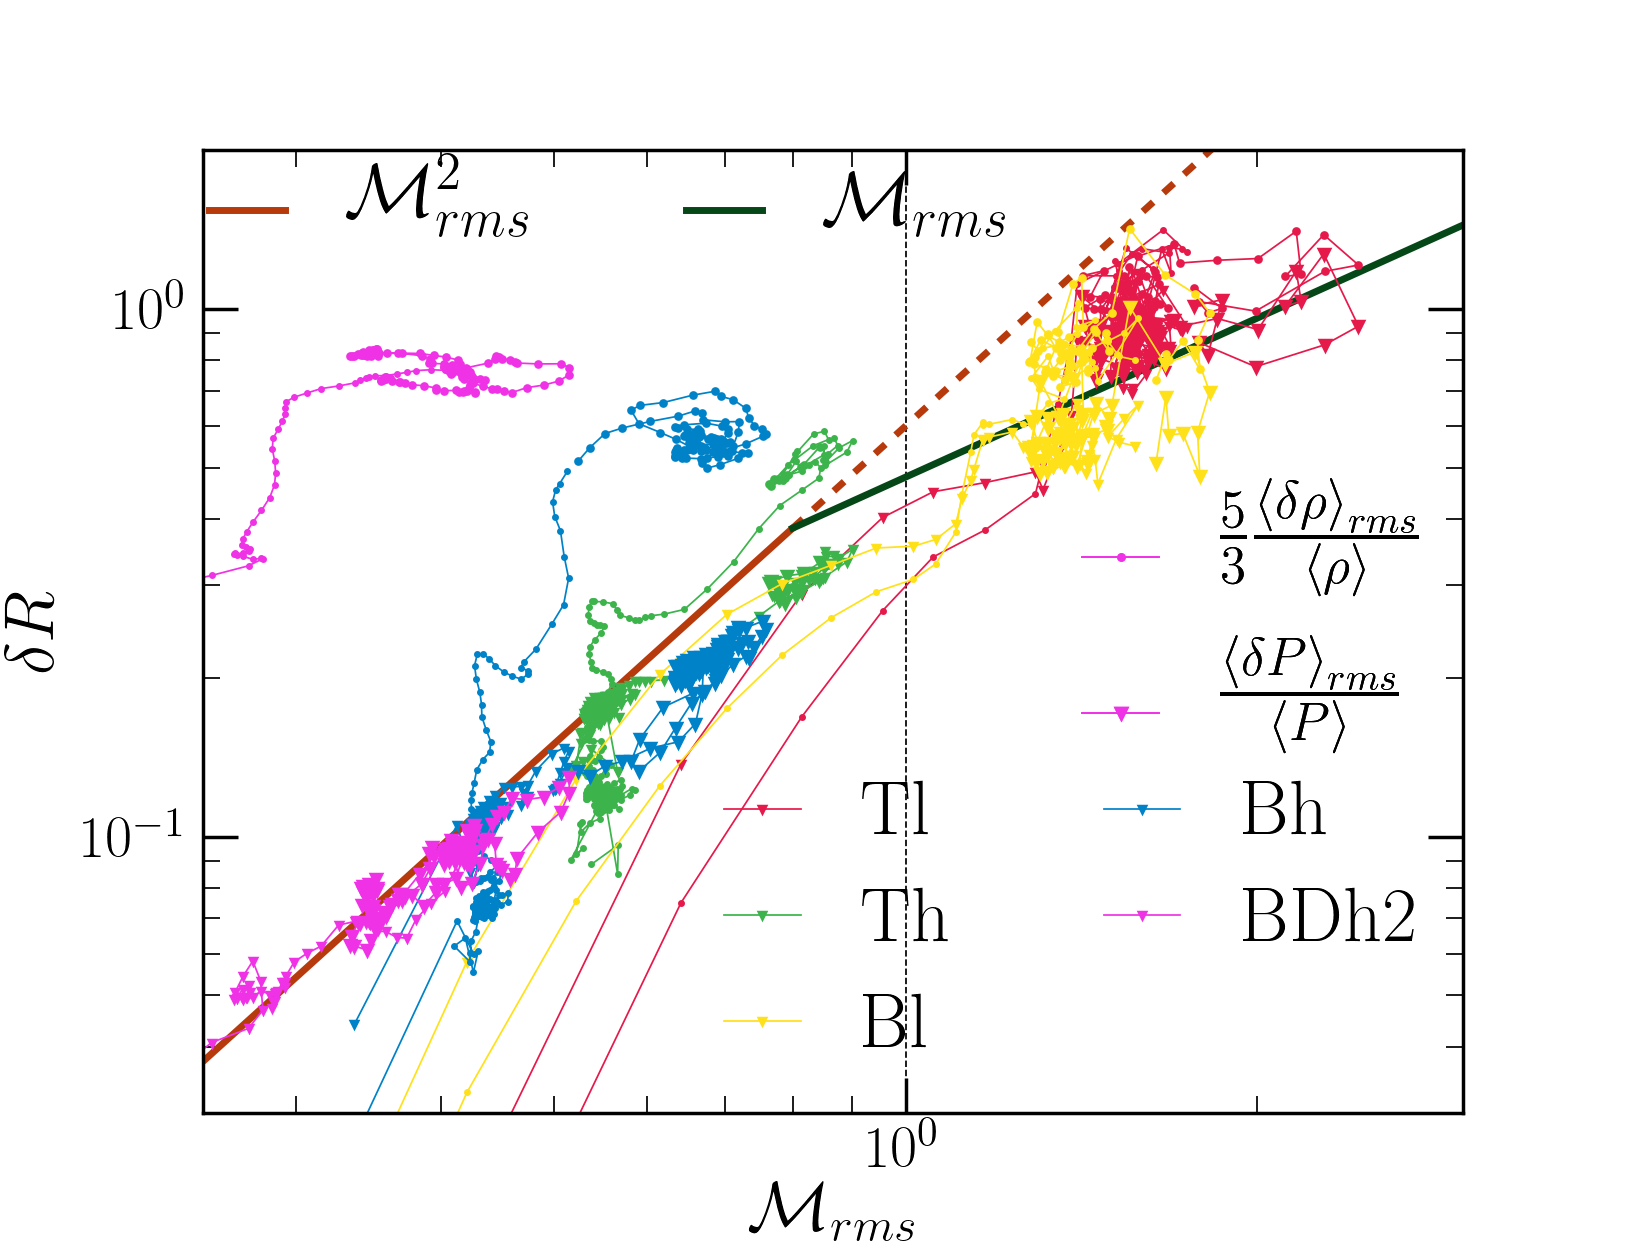
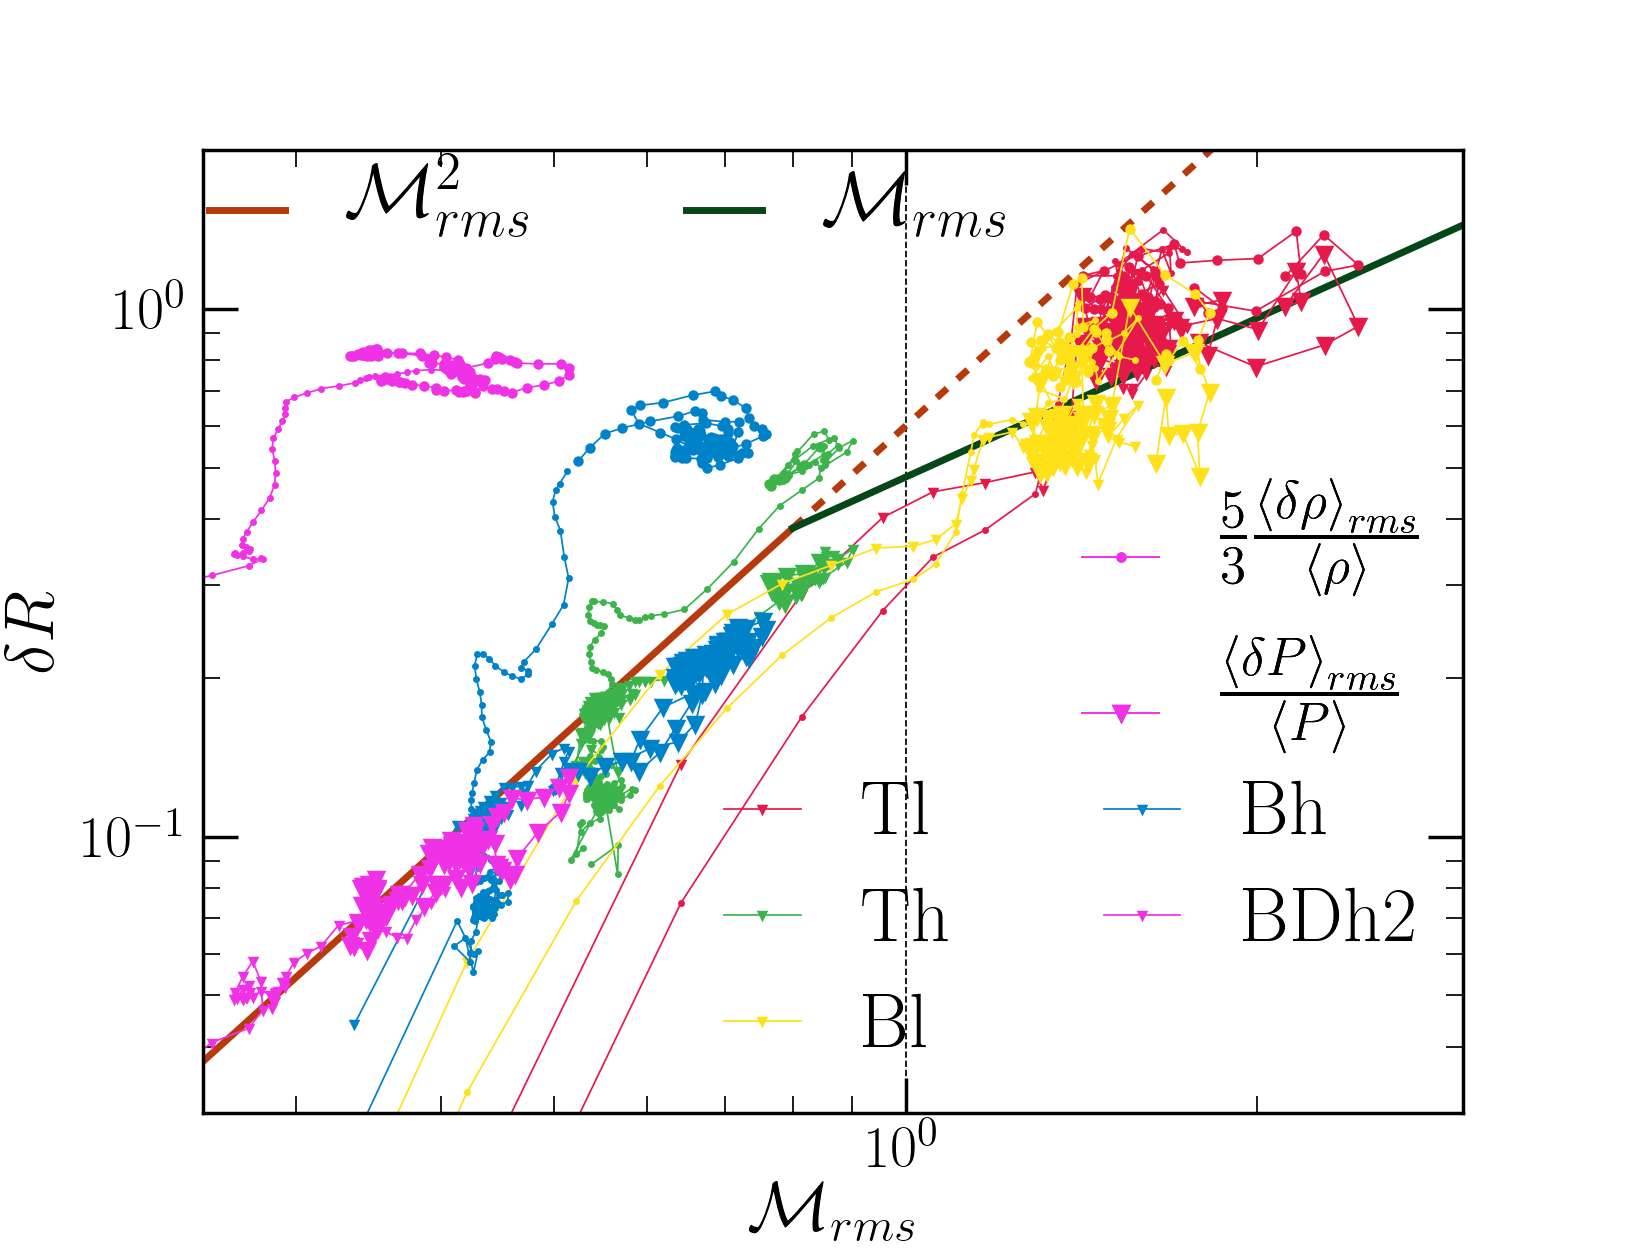
Edited plots

diff --git a/rho-mach/density_mach_all.py b/rho-mach/density_mach_all.py
@@ -74,14 +74,14 @@ for i1 in xrange(0, start.size):
         #Plot the data
 	if(i1!=4):
 		ax.plot(data[:,2][:int(start_time[i1]/step_size)],5./3.*data[:,1][:int(start_time[i1]/step_size)], label=labels[i1], color=colors[i1], marker=".", markersize=2., linewidth=.5)
-		perturb2[0], =ax.plot(data[:,2][int(start_time[i1]/step_size):],5./3.*data[:,1][int(start_time[i1]/step_size):], label=r'$\frac{5}{3}\frac{\left<\delta\rho\right>_{rms}}{\left<\rho\right>}$', color=colors[i1], marker=".", markersize=3., linewidth=0.5)
+		perturb2[0], =ax.plot(data[:,2][int(start_time[i1]/step_size):],5./3.*data[:,1][int(start_time[i1]/step_size):], label=r'$\frac{5}{3}\frac{\left<\delta\rho\right>_{rms}}{\left<\rho\right>}$', color=colors[i1], marker=".", markersize=4., linewidth=0.5)
 		perturb1[i1],=ax.plot(data[:,2][:int(start_time[i1]/step_size)],data[:,0][:int(start_time[i1]/step_size)], label=labels[i1], color=colors[i1], marker="v", markersize=2., linewidth=.5)
-		perturb2[1], =ax.plot(data[:,2][int(start_time[i1]/step_size):],data[:,0][int(start_time[i1]/step_size):], label=r'$\frac{\left<\delta P\right>_{rms}}{\left< P\right>}$', color=colors[i1], marker="v", markersize=3., linewidth=0.5)
+		perturb2[1], =ax.plot(data[:,2][int(start_time[i1]/step_size):],data[:,0][int(start_time[i1]/step_size):], label=r'$\frac{\left<\delta P\right>_{rms}}{\left< P\right>}$', color=colors[i1], marker="v", markersize=4., linewidth=0.5)
 	else:
 		ax.plot(data[:,2][:int(start_time[i1]/step_size)],5./3.*data[:,1][:int(start_time[i1]/step_size)], label=labels[i1], color=colors[i1+3], marker=".", markersize=2., linewidth=.5)
-		perturb2[0], =ax.plot(data[:,2][int(start_time[i1]/step_size):],5./3.*data[:,1][int(start_time[i1]/step_size):], label=r'$\frac{5}{3}\frac{\left<\delta\rho\right>_{rms}}{\left<\rho\right>}$', color=colors[i1+3], marker=".", markersize=3., linewidth=0.5)
+		perturb2[0], =ax.plot(data[:,2][int(start_time[i1]/step_size):],5./3.*data[:,1][int(start_time[i1]/step_size):], label=r'$\frac{5}{3}\frac{\left<\delta\rho\right>_{rms}}{\left<\rho\right>}$', color=colors[i1+3], marker=".", markersize=4., linewidth=0.5)
 		perturb1[i1],=ax.plot(data[:,2][:int(start_time[i1]/step_size)],data[:,0][:int(start_time[i1]/step_size)], label=labels[i1], color=colors[i1+3], marker="v", markersize=2., linewidth=.5)
-		perturb2[1], =ax.plot(data[:,2][int(start_time[i1]/step_size):],data[:,0][int(start_time[i1]/step_size):], label=r'$\frac{\left<\delta P\right>_{rms}}{\left< P\right>}$', color=colors[i1+3], marker="v", markersize=3., linewidth=0.5)
+		perturb2[1], =ax.plot(data[:,2][int(start_time[i1]/step_size):],data[:,0][int(start_time[i1]/step_size):], label=r'$\frac{\left<\delta P\right>_{rms}}{\left< P\right>}$', color=colors[i1+3], marker="v", markersize=4., linewidth=0.5)
 
 
 

diff --git a/All_analysis/rho-prs-spectra.py b/All_analysis/rho-prs-spectra.py
@@ -79,7 +79,7 @@ for i in xrange(0, amp.size):
 	k1=k1[0]
 	k2=k2[0]
 	
-	ratiok=Ek2/Ek1
+	ratiok=Ek1/Ek2
         del_ratiok=np.std(ratiok,0)
         ratio_k=np.average(ratiok,0)
 
@@ -123,15 +123,15 @@ spectra_legend=ax1.legend(handles=spectra, loc='lower left', bbox_to_anchor=(-0.
 ax1.add_artist(spectra_legend)
 ax1.legend(handles=[fit], loc='upper right', bbox_to_anchor=(1., 1.0), ncol=1, fancybox=True, framealpha=0., fontsize=25.)
 
-fit, =ax2.plot(x, 4.*x**(-1./6.), label=r'$k^{-1/6}$', marker="d", markeredgecolor='none', markersize=0.5, linewidth=2.0, color=colors[9])
+fit, =ax2.plot(x, 0.25*x**(1./6.), label=r'$k^{1/6}$', marker="d", markeredgecolor='none', markersize=0.5, linewidth=2.0, color=colors[9])
 ax2.set_yscale('log')
 ax2.set_xscale('log')
 ax2.set_xlabel('$k$', fontsize=20)
 ax2.set_ylabel(r'$R_k$', fontsize=20)
-ax2.set_ylim(1.,3.)
+ax2.set_ylim(1./3.,1.)
 ax2.set_xlim(1.e1,1e3)
 
-ratio_legend=ax2.legend(handles=ratio_spectra, loc='lower left', bbox_to_anchor=(-0.02, -0.08), ncol=2, fancybox=True, framealpha=0., fontsize=20.)
+ratio_legend=ax2.legend(handles=ratio_spectra, loc='lower left', bbox_to_anchor=(-0.02, 0.8), ncol=2, fancybox=True, framealpha=0., fontsize=20.)
 ax2.add_artist(ratio_legend)
 ax2.legend(handles=[fit], loc='upper right', bbox_to_anchor=(.8, 1.0), ncol=1, fancybox=True, framealpha=0., fontsize=25.)
 

diff --git a/All_analysis/rho-prs-spectra-cool.py b/All_analysis/rho-prs-spectra-cool.py
@@ -71,7 +71,7 @@ for i in xrange(0, start.size):
 	k1=k1[0]
 	k2=k2[0]
 	
-	ratiok=Ek2/Ek1
+	ratiok=Ek1/Ek2
         del_ratiok=np.std(ratiok,0)
         ratio_k=np.average(ratiok,0)
 
@@ -122,7 +122,7 @@ ax2.set_yscale('log')
 ax2.set_xscale('log')
 ax2.set_xlabel('$k$', fontsize=20)
 ax2.set_ylabel(r'$R_k$', fontsize=20)
-ax2.set_ylim(1.e-3,3.)
+ax2.set_ylim(1.e-1, 1.e3)
 ax2.set_xlim(1.e1,1e3)
 
 ratio_legend=ax2.legend(handles=ratio_spectra, loc='lower left', bbox_to_anchor=(-0.02, -0.08), ncol=5, fancybox=True, frameon=True, framealpha=0.5, fontsize=20.)
